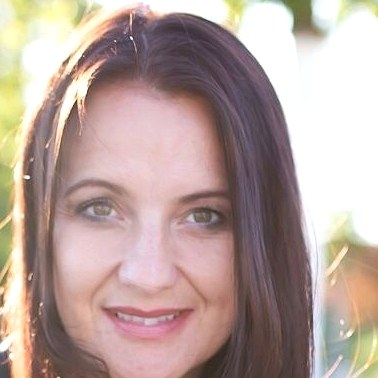
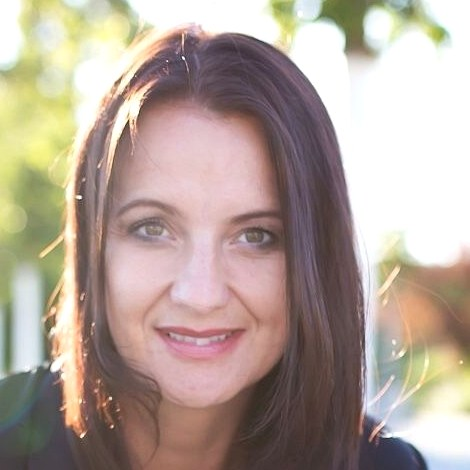
Fixes: #6 Reveals reparieren, #10 cineastischer Schwarz-Ausschnitt, Crops, 2026
- #6 (Kinetic): Alpine-Intersect-Plugin VOR Alpine-Core laden -> x-intersect
  funktioniert, .reveal-Inhalte + x-for-Karten wieder sichtbar (war fast leer)
- #10 (Immersive): Portrait zentriert als ganze Figur, Seiten gehen in Schwarz
  ueber (kein Gesicht-Zoom mehr)
- assets/simone-square.jpg: weiterer Crop (Kopf+Schultern) -> #3 und #8 nicht
  mehr zu tief ins Gesicht gezoomt
- index.html: "Redesign 2025" -> "2026"

diff --git a/design-alternative-10.html b/design-alternative-10.html
@@ -173,11 +173,13 @@
              radial-gradient(80% 60% at 50% 0%, rgba(169,156,133,.20), transparent 60%),
              linear-gradient(180deg,#15130f 0%, #0d0c0b 55%, #100e0b 100%);">
 
-    <!-- full-bleed cinematic portrait -->
+    <!-- zentriertes cineastisches Portrait: ganze Figur (kein Gesicht-Zoom), Seiten gehen in Schwarz ueber -->
     <img src="assets/simone-duotone.jpg"
          alt="Simone Heigl — Trainerin, Beraterin und Coach"
-         class="absolute inset-0 w-full h-full object-cover object-center z-0"
-         style="object-position:center 22%;" />
+         class="absolute inset-y-0 left-1/2 -translate-x-1/2 h-full w-auto max-w-none object-cover object-top z-0" />
+    <!-- links/rechts in Schwarz ausblenden (cineastischer Ausschnitt) -->
+    <span aria-hidden="true" class="absolute inset-0 z-0 pointer-events-none"
+          style="background:linear-gradient(90deg,#0d0c0b 0%,rgba(13,12,11,.72) 12%,transparent 32%,transparent 68%,rgba(13,12,11,.72) 88%,#0d0c0b 100%);"></span>
     <!-- gradient overlay for headline legibility -->
     <span aria-hidden="true" class="absolute inset-0 z-0 pointer-events-none"
           style="background:

diff --git a/design-alternative-6.html b/design-alternative-6.html
@@ -8,10 +8,10 @@
 
 <!-- Tailwind Play CDN -->
 <script src="https://cdn.tailwindcss.com"></script>
-<!-- Alpine.js -->
-<script defer src="https://cdn.jsdelivr.net/npm/alpinejs@3.x.x/dist/cdn.min.js"></script>
-<!-- Alpine Intersect plugin for scroll-reveals -->
+<!-- Alpine Intersect plugin (MUSS vor Alpine-Core geladen werden, sonst x-intersect unbekannt) -->
 <script defer src="https://cdn.jsdelivr.net/npm/@alpinejs/intersect@3.x.x/dist/cdn.min.js"></script>
+<!-- Alpine.js core -->
+<script defer src="https://cdn.jsdelivr.net/npm/alpinejs@3.x.x/dist/cdn.min.js"></script>
 <!-- Fonts -->
 <link rel="preconnect" href="https://fonts.googleapis.com">
 <link rel="preconnect" href="https://fonts.gstatic.com" crossorigin>

diff --git a/index.html b/index.html
@@ -116,7 +116,7 @@
     <div class="relative mx-auto max-w-[1400px] px-5 sm:px-8">
       <div class="flex items-center gap-3 text-xs uppercase tracking-[0.3em] text-taupe mb-7 reveal">
         <span class="h-px w-10 bg-taupe"></span>
-        Design-Studie · Redesign 2025
+        Design-Studie · Redesign 2026
       </div>
 
       <h1 class="ec-hero font-display font-light text-[15vw] sm:text-[11vw] lg:text-[9.5rem]">
